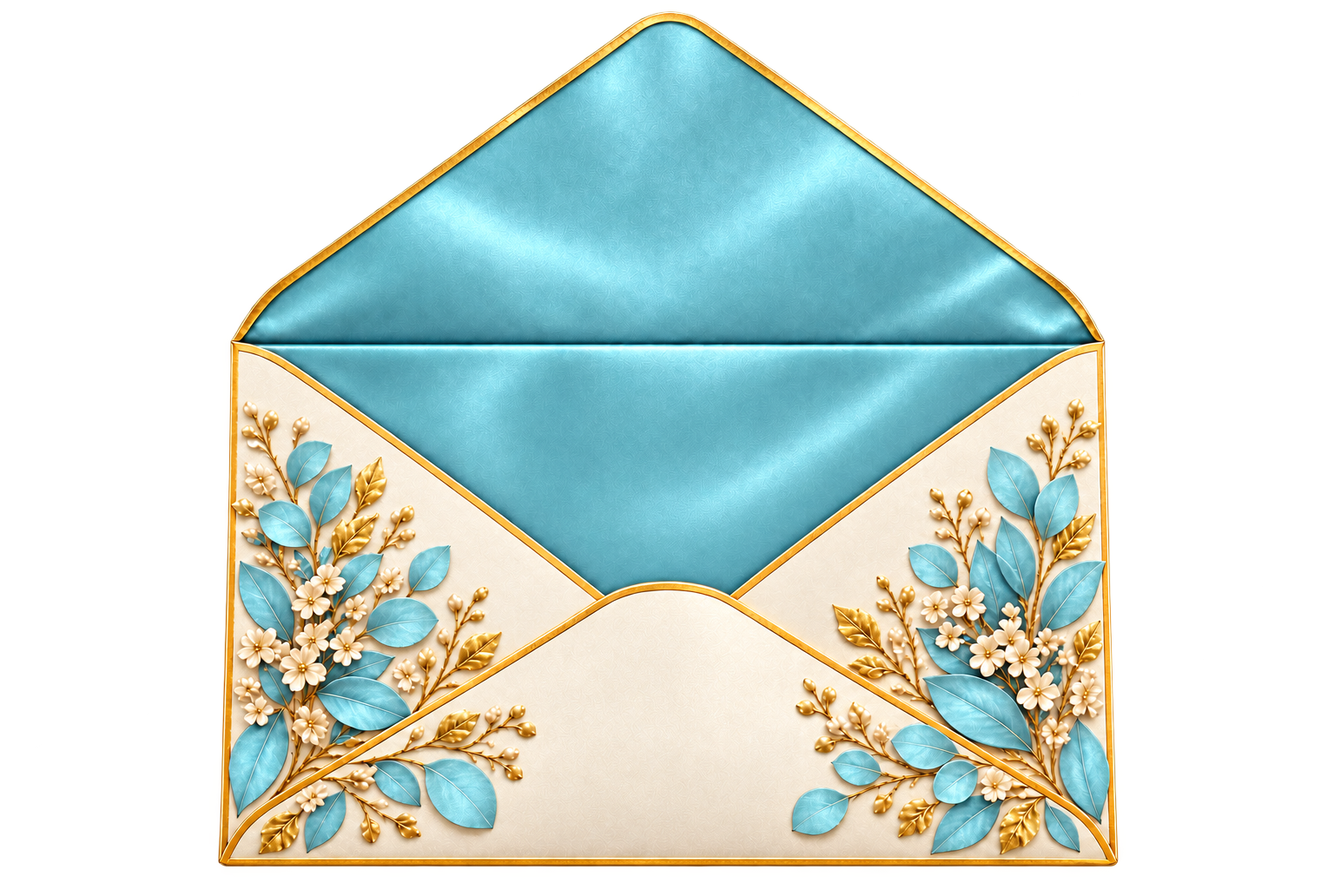
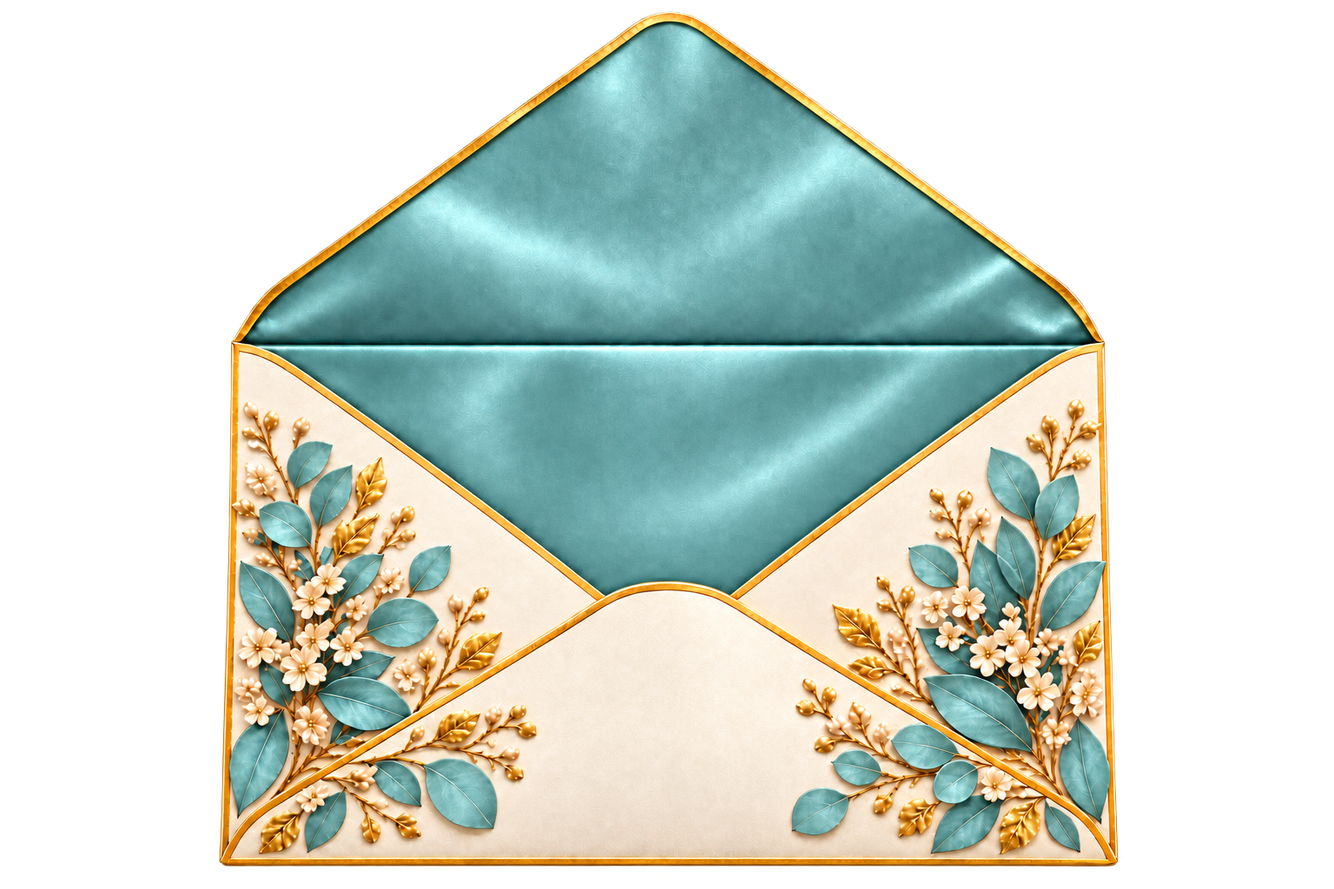
feat: actualiza invitaciones de Krystel y Erick y Erika

Changed region(s): [[0.1562, 0.0, 0.8438, 0.9688], [0.5938, 0.7812, 0.625, 0.8125], [0.4062, 0.6875, 0.4375, 0.7188]]

diff --git a/components/events/krystel-xv/KrystelInvitation.js b/components/events/krystel-xv/KrystelInvitation.js
@@ -11,9 +11,9 @@ const floral = "/images/events/krystel-xv/floral.png";
 const envelopeClosed = "/images/events/krystel-xv/envelope-closed.png";
 const envelopeOpen = "/images/events/krystel-xv/envelope-open.png";
 const theme = {
-  "--coral": "#b59045", "--peach": "#d8c3a5", "--olive": "#78b8ca", "--dark": "#3f7180",
-  "--gold": "#b59045", "--gold-soft": "#dfc98d", "--paper": "#fffdf9", "--ivory": "#eef8fa",
-  "--charcoal": "#40545a", "--muted": "#71878d", "--accent-light": "#eadcc5", "--floral-image": `url('${floral}')`,
+  "--coral": "#b59045", "--peach": "#d8c3a5", "--olive": "#5fa6aa", "--dark": "#3f7378",
+  "--gold": "#b59045", "--gold-soft": "#dfc98d", "--paper": "#fffdf8", "--ivory": "#edf6f5",
+  "--charcoal": "#405356", "--muted": "#708386", "--accent-light": "#e8dcc6", "--floral-image": `url('${floral}')`,
 };
 
 function getCountdown(date) {
@@ -71,21 +71,33 @@ export function KrystelInvitation({ event }) {
 
   return <div className={styles.wedding} style={theme}>
     {event.music.enabled && <audio ref={audioRef} src={event.music.url} loop preload="auto" onPlay={() => setPlaying(true)} onPause={() => setPlaying(false)} />}
-    {!opened && <div className={`${styles.intro} ${opening ? `${styles.opening} ${localStyles.opening}` : ""}`}><div className={styles.introBackdrop}><Image src={event.hero.image} fill priority sizes="100vw" alt="Decoración para los XV años de Krystel" /></div><div className={styles.introShade} /><div className={styles.introTitle}><span>Mis XV años</span><h1>Una invitación para ti</h1></div><div className={styles.envelopeScene}><div className={`${styles.envelopeStage} ${localStyles.envelopeStage}`}><div className={`${styles.letter} ${localStyles.letter}`}><Image src={floral} fill sizes="500px" alt="" aria-hidden="true" /><span>Mis XV años</span><h2 className={localStyles.letterName}>Krystel</h2><small>27 · 12 · 2026</small></div><Image className={`${styles.envelopeOpenBack} ${localStyles.envelopeOpenBack}`} src={envelopeOpen} fill priority sizes="(max-width:700px) 96vw,680px" alt="Sobre verde azulado abierto" /><Image className={`${styles.envelopeOpenFront} ${localStyles.envelopeOpenFront}`} src={envelopeOpen} fill priority sizes="(max-width:700px) 96vw,680px" alt="" aria-hidden="true" /><Image className={styles.envelopeClosed} src={envelopeClosed} fill priority sizes="(max-width:700px) 96vw,680px" alt="Sobre verde azulado cerrado con sello K" /><button className={styles.sealAction} onClick={openInvitation} disabled={opening} aria-label="Romper el sello y abrir la invitación" /></div><button className={styles.openLabel} onClick={openInvitation} disabled={opening}>{opening ? "Abriendo…" : "Abrir invitación"}</button></div></div>}
+    {!opened && <div className={`${styles.intro} ${opening ? `${styles.opening} ${localStyles.opening}` : ""}`}><div className={`${styles.introBackdrop} ${!event.hero.image ? localStyles.introFallback : ""}`}>{event.hero.image && <Image src={event.hero.image} fill priority sizes="100vw" alt="Decoración para los XV años de Krystel" />}</div><div className={styles.introShade} /><div className={styles.introTitle}><span>Mis XV años</span><h1>Una invitación para ti</h1></div><div className={styles.envelopeScene}><div className={`${styles.envelopeStage} ${localStyles.envelopeStage}`}><div className={`${styles.letter} ${localStyles.letter}`}><Image src={floral} fill sizes="500px" alt="" aria-hidden="true" /><span>Mis XV años</span><h2 className={localStyles.letterName}>Krystel</h2><small>27 · 12 · 2026</small></div><Image className={`${styles.envelopeOpenBack} ${localStyles.envelopeOpenBack}`} src={envelopeOpen} fill priority sizes="(max-width:700px) 96vw,680px" alt="Sobre verde azulado abierto" /><Image className={`${styles.envelopeOpenFront} ${localStyles.envelopeOpenFront}`} src={envelopeOpen} fill priority sizes="(max-width:700px) 96vw,680px" alt="" aria-hidden="true" /><Image className={styles.envelopeClosed} src={envelopeClosed} fill priority sizes="(max-width:700px) 96vw,680px" alt="Sobre verde azulado cerrado con sello K" /><button className={styles.sealAction} onClick={openInvitation} disabled={opening} aria-label="Romper el sello y abrir la invitación" /></div><button className={styles.openLabel} onClick={openInvitation} disabled={opening}>{opening ? "Abriendo…" : "Abrir invitación"}</button></div></div>}
 
     <main className={!opened ? styles.locked : styles.unlocked}>
-      <section className={styles.hero}><Image src={event.hero.image} fill priority sizes="100vw" alt="Celebración de los XV años de Krystel" /><div className={styles.heroShade} /><Image className={styles.heroFlower} src={floral} width={700} height={470} alt="" aria-hidden="true" /><div className={`${styles.heroCopy} ${localStyles.heroCopyCentered}`}><span>Mis XV años</span><h1 className={localStyles.heroName}><b>Krystel</b><i>XV</i></h1><p>Domingo · 27 de diciembre · 2026</p></div><a href="#bienvenida" aria-label="Continuar"><ChevronDown /></a></section>
+      <section className={`${styles.hero} ${!event.hero.image ? localStyles.heroFallback : ""}`}>{event.hero.image && <Image src={event.hero.image} fill priority sizes="100vw" alt="Celebración de los XV años de Krystel" />}<div className={styles.heroShade} /><Image className={styles.heroFlower} src={floral} width={700} height={470} alt="" aria-hidden="true" /><div className={`${styles.heroCopy} ${localStyles.heroCopyCentered}`}><span>Mis XV años</span><h1 className={localStyles.heroName}><b>Krystel</b><i>XV</i></h1><p>Domingo · 27 de diciembre · 2026</p></div><a href="#bienvenida" aria-label="Continuar"><ChevronDown /></a></section>
       <section className={styles.welcome} id="bienvenida" data-je-reveal><Crown /><span>Una noche para recordar</span><h2>Hoy comienza un capítulo<br />lleno de nuevos sueños.</h2><p>{event.hero.quote}</p><div className={styles.signature}>Krystel</div></section>
       <section className={styles.countdown} data-je-reveal><span>La espera casi termina</span><h2>Faltan</h2>{countdown === undefined ? <div className={styles.numbers}>{["Días", "Horas", "Minutos", "Segundos"].map((label) => <div key={label}><strong>--</strong><small>{label}</small></div>)}</div> : countdown ? <div className={styles.numbers}>{countdown.map(([label, value]) => <div key={label}><strong>{String(value).padStart(2, "0")}</strong><small>{label}</small></div>)}</div> : <h3>¡Hoy es mi gran día!</h3>}</section>
       <section className={localStyles.companions} data-je-reveal><Image src={floral} width={700} height={470} alt="" aria-hidden="true" /><Heart /><span>Con el corazón lleno de gratitud</span><h2>Acompañada por quienes han llenado mi camino de amor, consejos y momentos inolvidables.</h2><div className={`${localStyles.familyGrid} ${localStyles.familyGridSingle}`}><article><h3>Mis papás</h3>{event.family.parents.map((name) => <p key={name}>{name}</p>)}</article></div></section>
-      <section className={styles.location} data-je-reveal><div className={styles.locationImage}><Image src={event.ceremony.image} fill sizes="(max-width:800px) 100vw,55vw" alt="Decoración de la celebración" /></div><article><Church /><span>Misa</span><h2>{event.ceremony.name}</h2><strong>{event.ceremony.time}</strong><p>{event.ceremony.address}</p><a href={event.ceremony.mapsUrl} target="_blank" rel="noreferrer">Ver ubicación <ExternalLink /></a></article></section>
-      <section className={`${styles.location} ${styles.locationReverse}`} data-je-reveal><div className={styles.locationImage}><Image src={event.reception.image} fill sizes="(max-width:800px) 100vw,55vw" alt="Jardín para la recepción" /></div><article><Sparkles /><span>Recepción</span><h2>{event.reception.name}</h2><strong>{event.reception.time}</strong><p>{event.reception.address}</p><a href={event.reception.mapsUrl} target="_blank" rel="noreferrer">Cómo llegar <MapPin /></a></article></section>
+      {event.gallery.length > 0 && <section className={styles.photoGallery} data-je-reveal><span>Mis momentos</span><h2>Un sueño que comienza</h2><p>Recuerdos de una etapa que guardaré siempre en el corazón.</p><div className={`${styles.photoGrid} ${localStyles.photoGridStatic}`}>{event.gallery.map((photo) => <div key={photo.src}><Image src={photo.src} fill sizes="(max-width: 700px) 100vw, 50vw" alt={photo.alt} /></div>)}</div></section>}
+      <section className={localStyles.eventDetails} data-je-reveal>
+        <header><span>Los momentos de mi celebración</span><h2>Misa y recepción</h2><p>Estos son los lugares y horarios para acompañarme en este día tan especial.</p></header>
+        <div className={localStyles.eventDetailsGrid}>
+          <article className={localStyles.eventCard}>
+            <div className={`${localStyles.eventCardImage} ${!event.ceremony.image ? localStyles.locationFallback : ""}`}>{event.ceremony.image && <Image src={event.ceremony.image} fill sizes="(max-width:800px) 100vw,50vw" alt="Krystel en su sesión de quince años" />}</div>
+            <div className={localStyles.eventCardCopy}><Church /><span>Misa</span><h3>{event.ceremony.name}</h3><strong>{event.ceremony.time}</strong><p>{event.ceremony.address}</p><a href={event.ceremony.mapsUrl} target="_blank" rel="noreferrer">Ver ubicación <ExternalLink /></a></div>
+          </article>
+          <article className={`${localStyles.eventCard} ${localStyles.eventCardReverse}`}>
+            <div className={`${localStyles.eventCardImage} ${!event.reception.image ? localStyles.locationFallback : ""}`}>{event.reception.image && <Image src={event.reception.image} fill sizes="(max-width:800px) 100vw,50vw" alt="Krystel en un jardín" />}</div>
+            <div className={localStyles.eventCardCopy}><Sparkles /><span>Recepción</span><h3>{event.reception.name}</h3><strong>{event.reception.time}</strong><p>{event.reception.address}</p><a href={event.reception.mapsUrl} target="_blank" rel="noreferrer">Cómo llegar <MapPin /></a></div>
+          </article>
+        </div>
+      </section>
       <section className={`${styles.timeline} ${localStyles.timeline}`} data-je-reveal><span>27 de diciembre</span><h2>Una noche inolvidable</h2><div><article><time>5:00</time><small>p. m.</small><i /><h3>Ceremonia</h3><p>Santa María Magdalena</p></article><article><time>6:30</time><small>p. m.</small><i /><h3>Cena</h3><p>Hasta las 8:30 p. m.</p></article><article><time>9:00</time><small>p. m.</small><i /><h3>Baile</h3><p>Hasta las 2:00 a. m.</p></article></div></section>
       <section className={styles.dress} data-je-reveal><span>Colores reservados</span><h2>Aqua, champagne y dorado</h2><p>Estos colores están reservados para la quinceañera y los detalles especiales de su celebración. Gracias por elegir otros tonos para tu vestimenta.</p></section>
       <section className={styles.gifts} data-je-reveal><Gift /><span>Un detalle especial</span><h2>Tu presencia es mi mejor regalo</h2><p>Si además deseas tener un detalle conmigo, puedes obsequiar un regalo o un sobre. Lo recibiré con mucho cariño, sin que sea una obligación.</p></section>
       <section className={styles.calendar} data-je-reveal><CalendarDays /><span>Reserva la fecha</span><h2>27 de diciembre de 2026</h2><button onClick={addCalendar}>Agregar a mi calendario</button></section>
       <section className={styles.rsvp} data-je-reveal><div className={styles.rsvpIntro}><span>R S V P</span><h2>¿Me acompañas?</h2><p>Por favor confirma tu asistencia antes del 20 de diciembre.</p><a href={event.contact.whatsapp} target="_blank" rel="noreferrer">Dudas por WhatsApp: {event.contact.phone}</a><div>K</div></div>{success ? <div className={styles.success}><Check /><h3>¡Gracias, {success}!</h3><p>Recibí tu respuesta. Me dará mucha alegría compartir esta noche contigo.</p><button onClick={() => setSuccess("")}>Editar respuesta</button></div> : <form onSubmit={submit}><label>Nombre completo<input name="name" required placeholder="Escribe tu nombre" /></label><fieldset><legend>¿Asistirás?</legend><label><input type="radio" name="attendance" value="yes" required /> Sí, ahí estaré</label><label><input type="radio" name="attendance" value="no" required /> No podré asistir</label></fieldset><label>Número de acompañantes adultos<input name="companions" type="number" min="0" max={event.maxCompanions} defaultValue="0" /></label><label>Comentarios o consideraciones<textarea name="notes" rows="3" placeholder="Alergias o algo que debamos saber" /></label><label>Mensaje para Krystel<textarea name="message" rows="4" placeholder="Déjame unas palabras…" /></label><label className={styles.honeypot}>Sitio web<input name="website" tabIndex="-1" autoComplete="off" /></label>{error && <p className={styles.formError}>{error}</p>}<button disabled={saving}>{saving ? "Enviando…" : "Confirmar asistencia"}</button></form>}</section>
-      <section className={styles.closing} data-je-reveal><Image src={event.hero.image} fill sizes="100vw" alt="Celebración de Krystel" /><div /><Heart /><span>Gracias por ser parte de</span><h2>mi noche soñada.</h2><p>Krystel</p><button onClick={share}><Share2 /> Compartir invitación</button></section>
+      <section className={`${styles.closing} ${!event.hero.image ? localStyles.closingFallback : ""}`} data-je-reveal>{event.hero.image && <Image src={event.hero.image} fill sizes="100vw" alt="Celebración de Krystel" />}<div /><Heart /><span>Gracias por ser parte de</span><h2>mi noche soñada.</h2><p>Krystel</p><button onClick={share}><Share2 /> Compartir invitación</button></section>
     </main>
     {opened && event.music.enabled && <button className={styles.music} onClick={toggleMusic} aria-label={playing ? "Pausar música" : "Reproducir música"}>{playing ? <Pause /> : <Play />}<span>{playing ? "Reproduciendo" : event.music.label}</span></button>}
     <div className={`${styles.toast} ${toast ? styles.toastVisible : ""}`}>{toast}</div>

diff --git a/components/events/sara-blase/SaraBlaseInvitation.js b/components/events/sara-blase/SaraBlaseInvitation.js
@@ -36,6 +36,11 @@ export function SaraBlaseInvitation({ wedding, assets = defaultAssets, customThe
   const envelopeOpen = assets.envelopeOpen;
   const theme = { ...defaultTheme, ...customTheme, "--floral-image": `url('${floral}')` };
   const names = `${wedding.couple.partner1} y ${wedding.couple.partner2}`;
+  const whatsappContacts = wedding.contact?.whatsapps?.length
+    ? wedding.contact.whatsapps
+    : wedding.contact?.whatsapp
+      ? [{ phone: wedding.contact.phone, whatsapp: wedding.contact.whatsapp }]
+      : [];
   const [opened, setOpened] = useState(false);
   const [opening, setOpening] = useState(false);
   const [countdown, setCountdown] = useState(undefined);
@@ -163,9 +168,9 @@ export function SaraBlaseInvitation({ wedding, assets = defaultAssets, customThe
 
       {wedding.dressCode && <section className={styles.dress} data-je-reveal><span>Código de vestimenta</span><h2>{wedding.dressCode.title}</h2><p>{wedding.dressCode.text}</p></section>}
       {wedding.gifts?.length > 0 && <section className={styles.gifts} data-je-reveal><Heart /><span>Un detalle con cariño</span><h2>Tu presencia es nuestro mejor regalo</h2><p>{wedding.gifts[0].description}</p></section>}
-      <section className={styles.calendar} data-je-reveal><CalendarDays /><span>Reserva la fecha</span><h2>{wedding.calendarDate || "7 de noviembre de 2026"}</h2><div className={styles.calendarActions}><button onClick={addCalendar}>Agregar a mi calendario</button>{wedding.contact?.whatsapp && <a href={wedding.contact.whatsapp} target="_blank" rel="noreferrer"><MessageCircle size={16} /> Contactar por WhatsApp</a>}</div></section>
+      <section className={styles.calendar} data-je-reveal><CalendarDays /><span>Reserva la fecha</span><h2>{wedding.calendarDate || "7 de noviembre de 2026"}</h2><div className={styles.calendarActions}><button onClick={addCalendar}>Agregar a mi calendario</button>{whatsappContacts.map((contact) => <a key={contact.whatsapp} href={contact.whatsapp} target="_blank" rel="noreferrer"><MessageCircle size={16} /> WhatsApp {contact.phone}</a>)}</div></section>
 
-      <section className={styles.rsvp} data-je-reveal><div className={styles.rsvpIntro}><span>R S V P</span><h2>¿Nos acompañas?</h2><p>Por favor confirma tu asistencia antes del {wedding.rsvpDeadlineDisplay || "31 de octubre"}.</p>{wedding.contact?.whatsapp && <a href={wedding.contact.whatsapp} target="_blank" rel="noreferrer">Dudas por WhatsApp: {wedding.contact.phone}</a>}<div>{wedding.couple.partner1.slice(0, 1)} <i>&</i> {wedding.couple.partner2.slice(0, 1)}</div></div>{success ? <div className={styles.success}><Check /><h3>¡Gracias, {success}!</h3><p>Recibimos tu respuesta. Nos dará mucha alegría compartir este día contigo.</p><button onClick={() => setSuccess("")}>Editar respuesta</button></div> : <form onSubmit={submit}><label>Nombre completo<input name="name" required placeholder="Escribe tu nombre" /></label><fieldset><legend>¿Asistirás?</legend><label><input type="radio" name="attendance" value="yes" required /> Sí, ahí estaré</label><label><input type="radio" name="attendance" value="no" required /> No podré asistir</label></fieldset><label>Número de acompañantes<input name="companions" type="number" min="0" max={wedding.maxCompanions} defaultValue="0" /></label><label>Comentarios o consideraciones<textarea name="notes" rows="3" placeholder="Alergias o algo que debamos saber" /></label><label>Mensaje para los novios<textarea name="message" rows="4" placeholder="Déjanos unas palabras…" /></label><label className={styles.honeypot}>Sitio web<input name="website" tabIndex="-1" autoComplete="off" /></label>{error && <p className={styles.formError}>{error}</p>}<button disabled={saving}>{saving ? "Enviando…" : "Confirmar asistencia"}</button></form>}</section>
+      <section className={styles.rsvp} data-je-reveal><div className={styles.rsvpIntro}><span>R S V P</span><h2>¿Nos acompañas?</h2><p>Por favor confirma tu asistencia antes del {wedding.rsvpDeadlineDisplay || "31 de octubre"}.</p>{whatsappContacts.map((contact) => <a key={contact.whatsapp} href={contact.whatsapp} target="_blank" rel="noreferrer">Dudas por WhatsApp: {contact.phone}</a>)}<div>{wedding.couple.partner1.slice(0, 1)} <i>&</i> {wedding.couple.partner2.slice(0, 1)}</div></div>{success ? <div className={styles.success}><Check /><h3>¡Gracias, {success}!</h3><p>Recibimos tu respuesta. Nos dará mucha alegría compartir este día contigo.</p><button onClick={() => setSuccess("")}>Editar respuesta</button></div> : <form onSubmit={submit}><label>Nombre completo<input name="name" required placeholder="Escribe tu nombre" /></label><fieldset><legend>¿Asistirás?</legend><label><input type="radio" name="attendance" value="yes" required /> Sí, ahí estaré</label><label><input type="radio" name="attendance" value="no" required /> No podré asistir</label></fieldset><label>Número de acompañantes<input name="companions" type="number" min="0" max={wedding.maxCompanions} defaultValue="0" /></label><label>Comentarios o consideraciones<textarea name="notes" rows="3" placeholder="Alergias o algo que debamos saber" /></label><label>Mensaje para los novios<textarea name="message" rows="4" placeholder="Déjanos unas palabras…" /></label><label className={styles.honeypot}>Sitio web<input name="website" tabIndex="-1" autoComplete="off" /></label>{error && <p className={styles.formError}>{error}</p>}<button disabled={saving}>{saving ? "Enviando…" : "Confirmar asistencia"}</button></form>}</section>
 
       <section className={styles.closing} data-je-reveal><Image src={wedding.hero.image} fill sizes="100vw" alt={`Celebración de ${names}`} /><div /><Heart /><span>Gracias por ser parte de</span><h2>nuestra historia.</h2><p>{wedding.couple.partner1} <i>&</i> {wedding.couple.partner2}</p><button onClick={share}><Share2 /> Compartir invitación</button></section>
     </main>

diff --git a/components/events/krystel-xv/KrystelInvitation.module.css b/components/events/krystel-xv/KrystelInvitation.module.css
@@ -13,6 +13,10 @@
 .heroCopyCentered { width:100%; max-width:100vw; padding-inline:1rem!important; overflow:visible; }
 .heroName { width:100%; max-width:100%; display:grid; justify-items:center; font-size:clamp(4.2rem,14vw,10rem)!important; }
 .heroName b { max-width:100%; text-align:center; }
+.introFallback { background:radial-gradient(circle at 50% 42%,rgba(255,253,248,.18),transparent 34%),var(--floral-image) center 68%/min(88vw,880px) auto no-repeat,linear-gradient(145deg,var(--dark),var(--olive) 58%,#8fc4c2); }
+.heroFallback { background:radial-gradient(circle at 50% 35%,rgba(255,253,248,.16),transparent 36%),linear-gradient(145deg,var(--dark),var(--olive) 56%,#8fc4c2); }
+.locationFallback { background:var(--floral-image) center/82% auto no-repeat,radial-gradient(circle at center,rgba(255,253,248,.94),rgba(232,220,198,.72) 50%,rgba(95,166,170,.4)),linear-gradient(145deg,var(--paper),var(--ivory)); }
+.closingFallback { background:var(--floral-image) center 56%/min(84vw,820px) auto no-repeat,linear-gradient(145deg,var(--dark),var(--olive) 60%,#8fc4c2); }
 .companions { position:relative; isolation:isolate; overflow:hidden; padding:clamp(6rem,11vw,10rem) max(1.5rem,calc((100vw - 900px)/2)); background:linear-gradient(145deg,var(--paper),var(--ivory)); text-align:center; }
 .companions > img { position:absolute; z-index:-1; width:min(58vw,620px); height:auto; right:-15%; bottom:-18%; opacity:.22; transform:rotate(145deg); }
 .companions > svg { width:42px; height:42px; margin-bottom:1.5rem; color:var(--gold); stroke-width:1; }
@@ -23,6 +27,31 @@
 .familyGrid h3 { margin:0 0 1rem; color:var(--coral); text-transform:uppercase; letter-spacing:.24em; font-size:.65rem; }
 .familyGrid p { margin:.45rem 0; color:var(--charcoal); font-family:var(--font-serif),serif; font-size:clamp(1rem,2.4vw,1.3rem); line-height:1.55; }
 .familyGridSingle { display:block; max-width:680px; }
+.photoGridStatic > div { position:relative; overflow:hidden; background:var(--paper); }
+.photoGridStatic > div img { object-fit:cover; transition:transform .8s ease,filter .8s ease; }
+.photoGridStatic > div:hover img { transform:scale(1.04); filter:saturate(.86); }
+.photoGridStatic > div:nth-child(1) { grid-column:1/7; grid-row:span 6; }
+.photoGridStatic > div:nth-child(2) { grid-column:7/13; grid-row:span 6; }
+.photoGridStatic > div:nth-child(3) { grid-column:1/13; grid-row:span 5; }
+.eventDetails { padding:clamp(6rem,10vw,9rem) max(1rem,calc((100vw - 1180px)/2)); background:linear-gradient(145deg,var(--paper),var(--ivory)); }
+.eventDetails > header { max-width:720px; margin:0 auto clamp(3rem,6vw,5rem); text-align:center; }
+.eventDetails > header span,.eventCardCopy > span { color:var(--coral); text-transform:uppercase; letter-spacing:.28em; font-size:.62rem; font-weight:700; }
+.eventDetails > header h2 { margin:1rem 0; color:var(--charcoal); font-size:clamp(2.8rem,6vw,5.2rem); font-weight:500; line-height:1.05; }
+.eventDetails > header p { color:var(--muted); line-height:1.8; }
+.eventDetailsGrid { display:grid; gap:clamp(2rem,5vw,4.5rem); }
+.eventCard { min-height:520px; display:grid; grid-template-columns:1.08fr .92fr; overflow:hidden; background:var(--paper); box-shadow:0 24px 70px rgba(63,115,120,.12); }
+.eventCardReverse { grid-template-columns:.92fr 1.08fr; }
+.eventCardReverse .eventCardImage { grid-column:2; }
+.eventCardReverse .eventCardCopy { grid-column:1; grid-row:1; }
+.eventCardImage { position:relative; min-height:520px; background:var(--accent-light); }
+.eventCardImage img { object-fit:cover; }
+.eventCardCopy { display:flex; flex-direction:column; align-items:flex-start; justify-content:center; padding:clamp(2.5rem,6vw,5rem); }
+.eventCardCopy > svg { width:38px; height:38px; margin-bottom:1.6rem; color:var(--gold); stroke-width:1; }
+.eventCardCopy h3 { margin:1rem 0; color:var(--charcoal); font-size:clamp(2.25rem,4vw,3.8rem); font-weight:500; line-height:1.08; }
+.eventCardCopy strong { color:var(--olive); font-size:1.05rem; }
+.eventCardCopy p { margin:1rem 0; color:var(--muted); line-height:1.8; }
+.eventCardCopy a { display:inline-flex; align-items:center; gap:.55rem; margin-top:.7rem; padding-bottom:.4rem; border-bottom:1px solid var(--gold); text-transform:uppercase; letter-spacing:.14em; font-size:.58rem; }
+.eventCardCopy a svg { width:15px; }
 .timeline > div { grid-template-columns:repeat(3,1fr); }
 @media(max-width:600px){
   .letter { width:50%; height:42%; left:25%; bottom:22%; }
@@ -32,5 +61,9 @@
   .companions > img { width:95vw; right:-45%; opacity:.16; }
   .familyGrid { grid-template-columns:1fr; gap:1.75rem; }
   .familyGrid > i { width:70px; height:1px; min-height:1px; margin:auto; }
+  .photoGridStatic > div { grid-column:span 2!important; grid-row:span 2!important; }
+  .eventCard,.eventCardReverse { grid-template-columns:1fr; }
+  .eventCardImage,.eventCardReverse .eventCardImage { grid-column:1; grid-row:1; min-height:390px; }
+  .eventCardCopy,.eventCardReverse .eventCardCopy { grid-column:1; grid-row:2; }
   .timeline > div { grid-template-columns:1fr; }
 }

diff --git a/config/events/krystel-xv.js b/config/events/krystel-xv.js
@@ -1,6 +1,6 @@
 export const krystelXv = {
   slug: "xv-krystel",
-  templateKey: "krystel-xv-aqua-champagne-gold",
+  templateKey: "krystel-xv-muted-aqua-champagne-gold",
   eventTitle: "XV años de Krystel",
   couple: { partner1: "Krystel", partner2: "Mis XV" },
   date: "2026-12-27T17:00:00-06:00",
@@ -11,7 +11,7 @@ export const krystelXv = {
   hero: {
     subtitle: "Mis XV años",
     quote: "Hay momentos inolvidables que se guardan para siempre en el corazón. Me hará muy feliz compartir contigo esta noche tan especial.",
-    image: "/images/events/krystel-xv/hero.png",
+    image: "/images/events/krystel-xv/foto-2.webp",
   },
   ceremony: {
     enabled: true,
@@ -19,7 +19,7 @@ export const krystelXv = {
     time: "5:00 p. m.",
     address: "Santa María Magdalena, Balleza, Chihuahua",
     mapsUrl: "https://www.google.com/maps/search/?api=1&query=Santa+Maria+Magdalena+Balleza+Chihuahua",
-    image: "/images/events/krystel-xv/hero.png",
+    image: "/images/events/krystel-xv/foto-1.webp",
   },
   reception: {
     enabled: true,
@@ -27,7 +27,7 @@ export const krystelXv = {
     time: "6:30 p. m.",
     address: "Auditorio Municipal, Balleza, Chihuahua",
     mapsUrl: "https://www.google.com/maps/search/?api=1&query=Auditorio+Municipal+Balleza+Chihuahua",
-    image: "/images/events/krystel-xv/hero.png",
+    image: "/images/events/krystel-xv/foto-3.webp",
   },
   itinerary: [
     { time: "17:00", title: "Ceremonia", description: "Santa María Magdalena", icon: "heart" },
@@ -37,8 +37,12 @@ export const krystelXv = {
   family: { parents: ["Luis Carlos Hernández P.", "Élida Bustillos S."], godparents: [] },
   dressCode: { title: "Aqua, champagne y dorado reservados", text: "Agradecemos elegir otros tonos para tu vestimenta." },
   gifts: [{ name: "Regalo o sobre", description: "Tu presencia es mi mejor regalo. Si deseas tener un detalle conmigo, puedes elegir un regalo o un sobre.", url: "", type: "cash" }],
-  gallery: [],
+  gallery: [
+    { src: "/images/events/krystel-xv/foto-1.webp", alt: "Krystel con vestido plateado frente a una puerta de madera" },
+    { src: "/images/events/krystel-xv/foto-2.webp", alt: "Krystel con su vestido aqua de quinceañera" },
+    { src: "/images/events/krystel-xv/foto-3.webp", alt: "Retrato de Krystel en un jardín" },
+  ],
   contact: { phone: "6491180778", whatsapp: "https://wa.me/526491180778" },
   music: { enabled: true, url: "/audio/margarita-mateo-perfect-espanol.mp3", label: "Perfect · Ed Sheeran" },
-  theme: { primary: "#78b8ca", dark: "#3f7180", champagne: "#d8c3a5", cream: "#eef8fa", ivory: "#fffdf9", rose: "#eadcc5", sage: "#9ed1dd" },
+  theme: { primary: "#5fa6aa", dark: "#3f7378", champagne: "#d8c3a5", cream: "#edf6f5", ivory: "#fffdf8", rose: "#dfc98d", sage: "#8fc4c2" },
 };

diff --git a/config/events/erick-erika.js b/config/events/erick-erika.js
@@ -38,15 +38,15 @@ export const erickErika = {
   ceremony: {
     name: "Parroquia de Nuestra Señora de la Candelaria",
     time: "11:00 a. m.",
-    address: "Parroquia de Nuestra Señora de la Candelaria",
-    mapsUrl: "https://www.google.com/maps/search/?api=1&query=Parroquia+de+Nuestra+Se%C3%B1ora+de+la+Candelaria",
+    address: "Ignacio Zaragoza y Francisco Villa, C.P. 70312, Palomares, Matías Romero Avendaño, Oaxaca",
+    mapsUrl: "https://www.google.com/maps/search/?api=1&query=Parroquia+de+Nuestra+Se%C3%B1ora+de+la+Candelaria%2C+Palomares%2C+Mat%C3%ADas+Romero+Avenda%C3%B1o%2C+Oaxaca",
     image: "/images/events/erick-erika/foto-2.jpeg",
   },
   reception: {
     name: "Salón San Isidro Labrador",
     time: "1:00 p. m.",
-    address: "Boda civil, baile y brindis",
-    mapsUrl: "https://www.google.com/maps/search/?api=1&query=Salon+San+Isidro+Labrador",
+    address: "Palomares, Matías Romero Avendaño, Oaxaca",
+    mapsUrl: "https://www.google.com/maps/search/?api=1&query=Sal%C3%B3n+San+Isidro+Labrador%2C+Palomares%2C+Mat%C3%ADas+Romero+Avenda%C3%B1o%2C+Oaxaca",
     image: "/images/events/erick-erika/foto-7.jpeg",
   },
   itinerary: [
@@ -59,7 +59,7 @@ export const erickErika = {
     date: "Domingo 15 de noviembre de 2026",
     time: "2:00 p. m.",
     place: "Salón San Isidro Labrador",
-    mapsUrl: "https://www.google.com/maps/search/?api=1&query=Salon+San+Isidro+Labrador",
+    mapsUrl: "https://www.google.com/maps/search/?api=1&query=Sal%C3%B3n+San+Isidro+Labrador%2C+Palomares%2C+Mat%C3%ADas+Romero+Avenda%C3%B1o%2C+Oaxaca",
   },
   gallery: [
     { src: "/images/events/erick-erika/foto-1.jpeg", alt: "Erick y Erika compartiendo un momento juntos" },
@@ -71,7 +71,14 @@ export const erickErika = {
     { src: "/images/events/erick-erika/foto-7.jpeg", alt: "La historia de amor de Erick y Erika" },
     { src: "/images/events/erick-erika/foto-8.jpeg", alt: "Erick y Erika, una vida juntos" },
   ],
-  contact: { phone: "", whatsapp: "" },
+  contact: {
+    phone: "972 109 7645",
+    whatsapp: "https://wa.me/529721097645",
+    whatsapps: [
+      { phone: "972 109 7645", whatsapp: "https://wa.me/529721097645" },
+      { phone: "625 322 3533", whatsapp: "https://wa.me/526253223533" },
+    ],
+  },
   music: {
     enabled: true,
     url: "/audio/erick-erika-cancion.mpeg",

diff --git a/app/eventos/page.js b/app/eventos/page.js
@@ -21,9 +21,9 @@ export default function EventsPage() {
         <div className={styles.copy}><small>Invitación personalizada</small><h2>Erick & Erika</h2><p>Champagne · Beige · Café</p><strong>Ver invitación <span>→</span></strong></div>
       </Link>
       <Link href="/eventos/xv-krystel" className={styles.card}>
-        <Image src="/images/events/krystel-xv/hero.png" fill sizes="(max-width: 800px) 100vw, 50vw" alt="Invitación de XV años de Krystel" />
+        <Image src="/images/events/krystel-xv/foto-2.webp" fill sizes="(max-width: 800px) 100vw, 50vw" alt="Invitación de XV años de Krystel" />
         <div className={styles.overlay} />
-        <div className={styles.copy}><small>Invitación personalizada</small><h2>Krystel · XV</h2><p>Aqua · Champagne · Dorado</p><strong>Ver invitación <span>→</span></strong></div>
+        <div className={styles.copy}><small>Invitación personalizada</small><h2>Krystel · XV</h2><p>Aqua apagado · Champagne · Dorado</p><strong>Ver invitación <span>→</span></strong></div>
       </Link>
       <Link href="/eventos/margarita-y-mateo" className={styles.card}>
         <Image src="/images/events/margarita-mateo/foto-1.webp" fill sizes="(max-width: 800px) 100vw, 50vw" alt="Invitación de boda de Margarita y Mateo" />

diff --git a/app/eventos/xv-krystel/page.js b/app/eventos/xv-krystel/page.js
@@ -1,13 +1,15 @@
 import { KrystelInvitation } from "@/components/events/krystel-xv/KrystelInvitation";
 import { krystelXv } from "@/config/events/krystel-xv";
 
+const previewImage = krystelXv.hero.image || "/images/events/krystel-xv/envelope-closed.png";
+
 export const metadata = {
   title: "Krystel | Mis XV años",
   description: krystelXv.hero.quote,
   openGraph: {
     title: "Krystel | Mis XV años",
     description: "27 de diciembre de 2026 · Balleza, Chihuahua",
-    images: [krystelXv.hero.image],
+    images: [previewImage],
   },
 };
 
